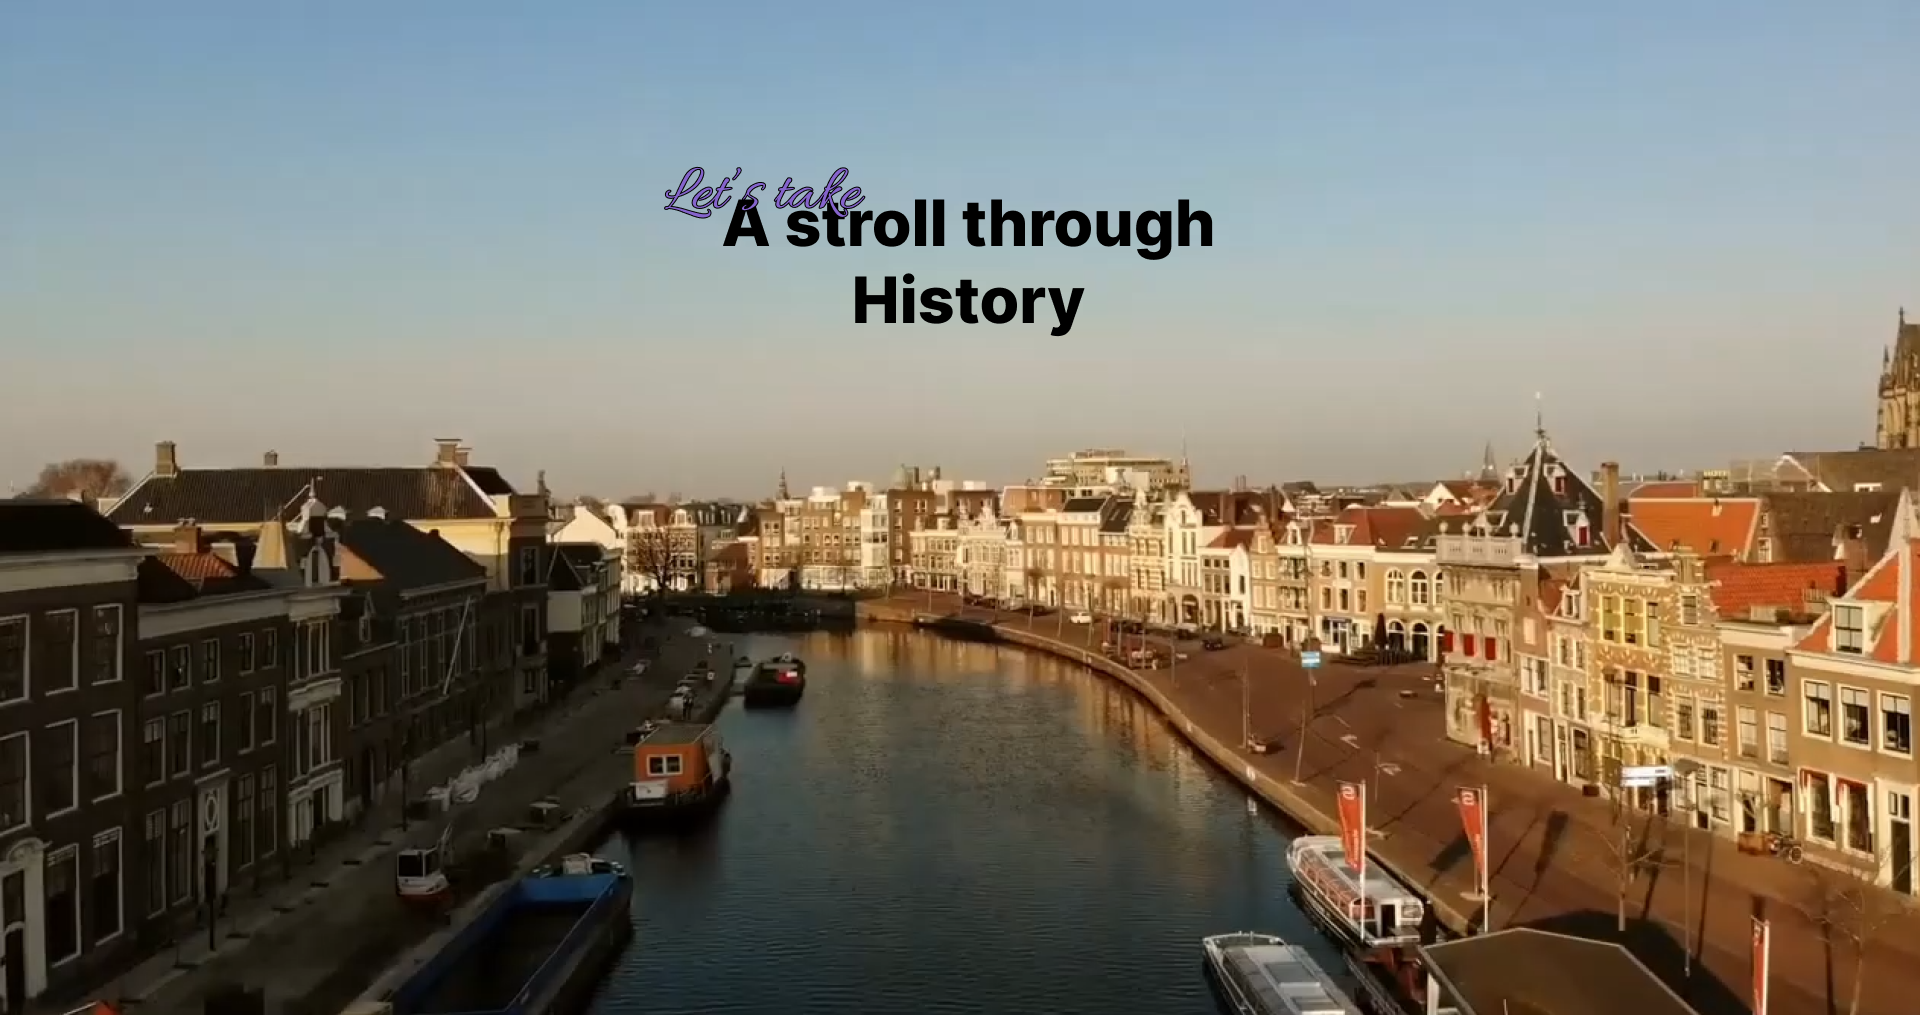
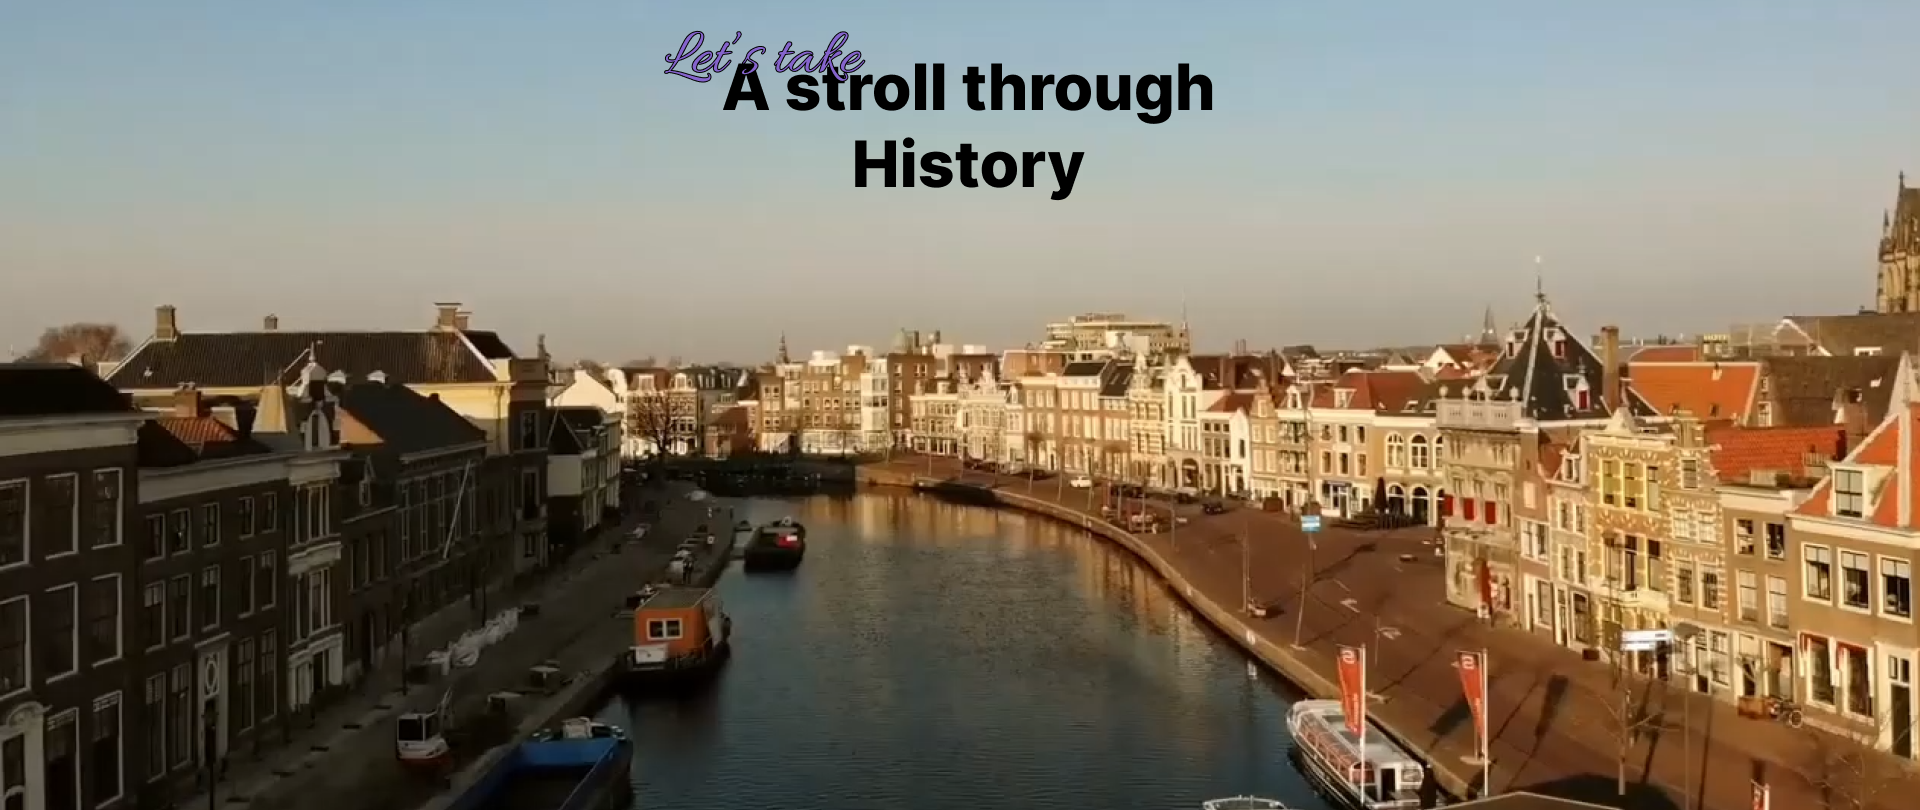
almost done with the front end

diff --git a/app/views/walkingtour/index.php b/app/views/walkingtour/index.php
@@ -5,9 +5,9 @@
         <meta name="viewport" content="width=device-width, initial-scale=1">
         <title>Walking Tour</title>
 
+        <link rel="stylesheet" href="/stylesheet.css" type="text/css">
         <link href="https://cdn.jsdelivr.net/npm/bootstrap@5.3.0-alpha1/dist/css/bootstrap.min.css" rel="stylesheet" integrity="sha384-GLhlTQ8iRABdZLl6O3oVMWSktQOp6b7In1Zl3/Jr59b6EGGoI1aFkw7cmDA6j6gD" crossorigin="anonymous">
         <script defer src="https://cdn.jsdelivr.net/npm/bootstrap@5.3.0-alpha1/dist/js/bootstrap.bundle.min.js" integrity="sha384-w76AqPfDkMBDXo30jS1Sgez6pr3x5MlQ1ZAGC+nuZB+EYdgRZgiwxhTBTkF7CXvN" crossorigin="anonymous"></script>
-        <link rel="stylesheet" href="/stylesheet.css" type="text/css">
 
     </head>
     <body>
@@ -17,14 +17,78 @@
 
 <main>
 
-<section class="container mx-0 px-0">
-    <div class="">
-        <img src="/media/walkingtourPics/walkingtourHeader.png" class="img-fluid" alt="Header" id="header">
-    </div>
+<section id="header-container" class="container mx-0 px-0">
+<img src="/media/walkingtourPics/walkingtourHeader.png" class="mx-auto" alt="Header" id="header-img">
+<div id="text-container" class="container bg-light w-50 opacity-75 text-center">
+<p id="header-text" class="text-dark"><?php echo $event->getDescription()?></p>
+</div>
+<button id="header-button-show" class="rounded-pill">Show me around</button>
+<button id="header-button-program" class="rounded-pill">Save me a spot</button>
 </section>
 
-<div class="album py-5 bg-light">
-  
+<div class="container pt-5 text-center">
+  <img src="/media/walkingtourPics/walking-tour-title-logo.png" class="" id="title-logo">
+  <div class="container text-center">
+    <div class="row pt-4">
+  <div class="col" id="description-left">
+    <h5>From <?php echo $event->getStartTime()?> to <?php echo $event->getEndTime()?></h5>
+  <p>There will be a walking tour with several departures each day, with different languages available; and overall duration of 2 and a half hours, including a 15mins break with refreshments.</p>
+  <button class="rounded-pill">When?</button>
+</div>
+  <div id="map-container" class="col">
+       <img id="map-placeholder" src="/media/walkingtourPics/mapplaceholder.png" class="" alt="map">
+  </div>
+  <div class="col" id="description-right">
+  <p>With 9 landmarks to visit and multiple streets to walk through, you will have plenty memorable moments, starting from the Saint Bavo Church, your guide will submerge you on Haalem’s History.</p>
+  <button class="rounded-pill">Where?</button>
+</div>
+</div>
+<div class="row pt-4">
+  <div class="col" id="text-container-left">
+    <h5>worth knowing</h5>
+  <ul>
+    <li>The walking tour has a minimum age requirement of 12 years old.</li>
+    <li>Time slots must be reserved in advance through our website.</li>
+    <li>There are 12 people in each group for the tour, if you are bringing someone with you please reserve together.</li>
+    <li>The tour is guided live in Dutch, English and Chinese, don’t forget to select your preferred language.</li>
+    <li>All tours start from the  St. Bavo Cathedral.</li>
+</ul>
+</div>
+<div class="col" id="text-container-right">
+    <h5>Prices</h5>
+    <p>In order to accomodate everyone, we are offering two different prices for our walking tour! the prices include one drink for each person and of course, an enjoyable experience.</p>
+    <br>
+
+    <div class="container text-center">
+        <div class="row">
+            <div class="col">
+                <h6>regular ticket</h6>
+                <p>regular price</p>
+            </div>
+            <div class="col">
+                <h6>family ticket</h6>
+                <p class="mb-0">family price</p>
+                <label>max 4 people</label>
+            </div>
+    </div>
+        
+        <button class="rounded-pill">sing me up!</button>	
+    </div>
+</div>
+</div>
+
+<div class="row pt-4">
+    <div class="container text center">
+        <h3>Sites to See</h3>
+        <div class="row">
+        <div id="map-container" class="col">
+       <img id="map-placeholder" src="/media/walkingtourPics/mapplaceholder.png" class="" alt="map">
+        </div>
+            <div class="col">
+                <p>The guide will bring you to these 9 majestic Haarlem landmarks; starting with the Bavo Cathedraal</p>
+            </div>
+        </div>
+    </div>
 </div>
 
 </main>
@@ -36,13 +100,103 @@
     </body>
 </html>
 <style>
-#header{
-    width: px;
+
+
+button {
+    font-size: 21px;
+    background-color: #8564CC;
+    color: white;
+    border-color: white;
+    font-weight: 600;
+    padding-left: 15px;
+    padding-right: 15px;
+    height: 40px;
+    border-width: 3px;
+}
+
+button:hover{
+    background-color: white;
+    border-color: #8564CC;
+    color: #8564CC;
+}
+
+#header-container{
+    position: relative;
+    background-color: white;
+}
+#header-img{
+    position: relative;
+    z-index: 1;
+    width: 1204px;
     height: 100%;
     background-image: url("/media/walkingtourPics/walkingtourHeader.png");
     background-size: cover;
     background-position: center;
     background-repeat: no-repeat;
+}
+
+#text-container{
+    position: absolute;
+    top: 48%;
+    left: 54%;
+    transform: translate(-50%, -50%);
+    font-size: 25px;
+    z-index: 2;
+}
+
+#header-button-show{
+    position: absolute;
+    top: 70%;
+    left: 40%;
+    width: 220px;
+    transform: translate(-50%, -50%);
+    z-index: 2;
+}
+
+
+#header-button-program{
+    position: absolute;
+    width: 220px;
+    top: 70%;
+    left: 65%;
+    transform: translate(-50%, -50%);
+    z-index: 2;
+}
+
+#title-logo{
+    width: 300px
+}
+
+#map-placeholder{
+    width: 300px;
+    height: 250px;
+}
+
+#map-container{
+    border: 4px solid #8564CC;
+    padding: 10px;
+    border-radius: 60px;
+}
+#description-right{
+    padding-top: 20px;
+}
+
+#text-container-left{
+    border: 4px solid #8564CC;
+    padding: 10px;
+    border-radius: 60px;
+    margin-right: 10px;
+}
+
+#text-container-right{
+    border: 4px solid #8564CC;
+    padding: 10px;
+    border-radius: 60px;
+    margin-left: 10px;
+}
+
+label{
+    font-size: 12px;
 }
 </style>
 
